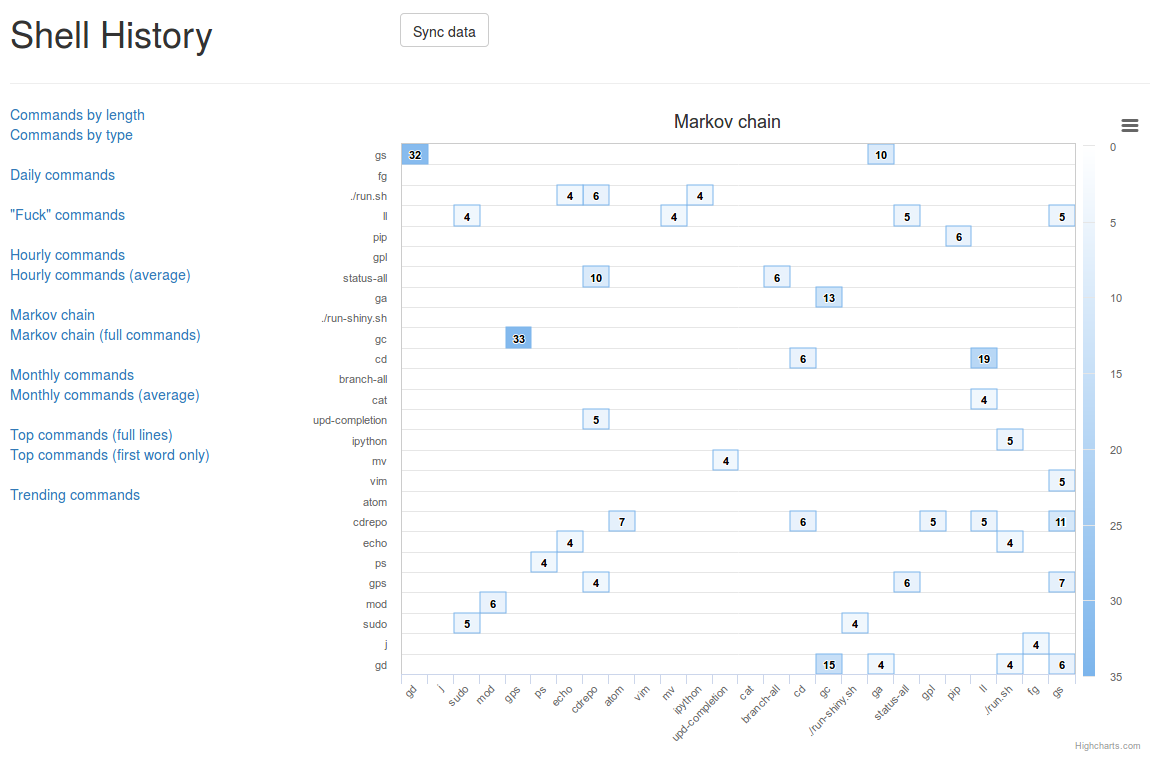
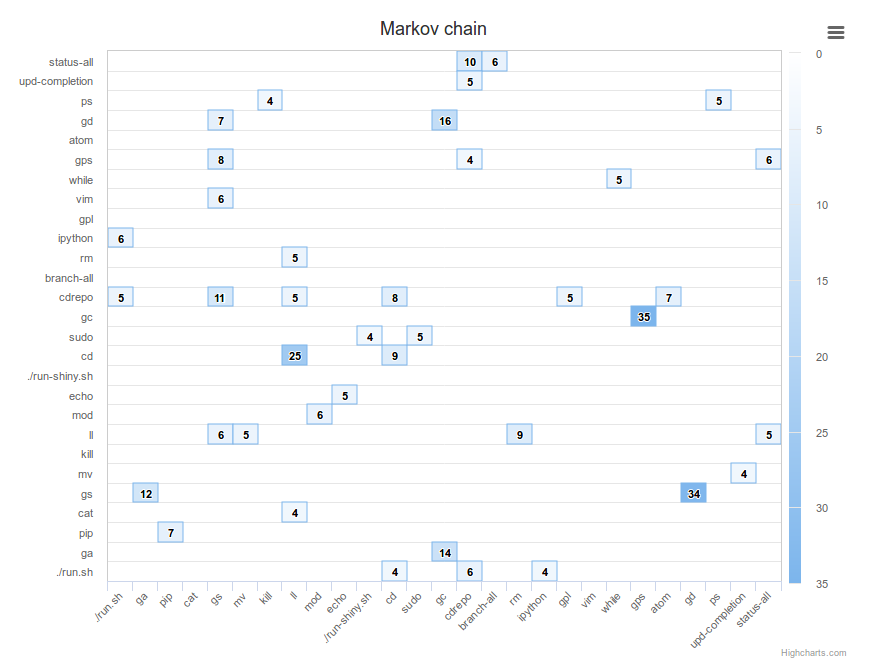
Update pictures, remove fuck

diff --git a/templates/home.html b/templates/home.html
@@ -54,8 +54,6 @@
             <li><a href="/daily">Daily commands</a></li>
             <li><a href="/daily_average">Daily commands (average)</a></li>
             <li><br></li>
-            <li><a href="/fuck">"Fuck" commands</a></li>
-            <li><br></li>
             <li><a href="/hourly">Hourly commands</a></li>
             <li><a href="/hourly_average">Hourly commands (average)</a></li>
             <li><br></li>

diff --git a/app.py b/app.py
@@ -114,11 +114,6 @@ def daily_average_view():
     return render_template('daily_average.html')
 
 
-@app.route('/fuck')
-def fuck_view():
-    return render_template('fuck.html')
-
-
 @app.route('/hourly')
 def hourly_view():
     return render_template('hourly.html')
@@ -198,12 +193,6 @@ def daily_average_json():
     ).group_by('day').all())
     data = [float('%.2f' % (results[str(day)] / number_of_weeks))
             for day in range(1, 8)]
-    return jsonify(data)
-
-
-@app.route('/fuck_json')
-def fuck_json():
-    data = None
     return jsonify(data)
 
 

diff --git a/README.md b/README.md
@@ -78,7 +78,8 @@ cd /path/to/shellhistory || exit 1
 ## How it looks
 ![length chart](pictures/length.png)
 ![markov chart](pictures/markov.png)
-![hourly chart](pictures/hourly.png)
+![daily chart](pictures/daily.png)
+![type chart](pictures/type.png)
 
 ## How it works
 In order to append a line each time a command is entered, the `PROMPT_COMMAND`
